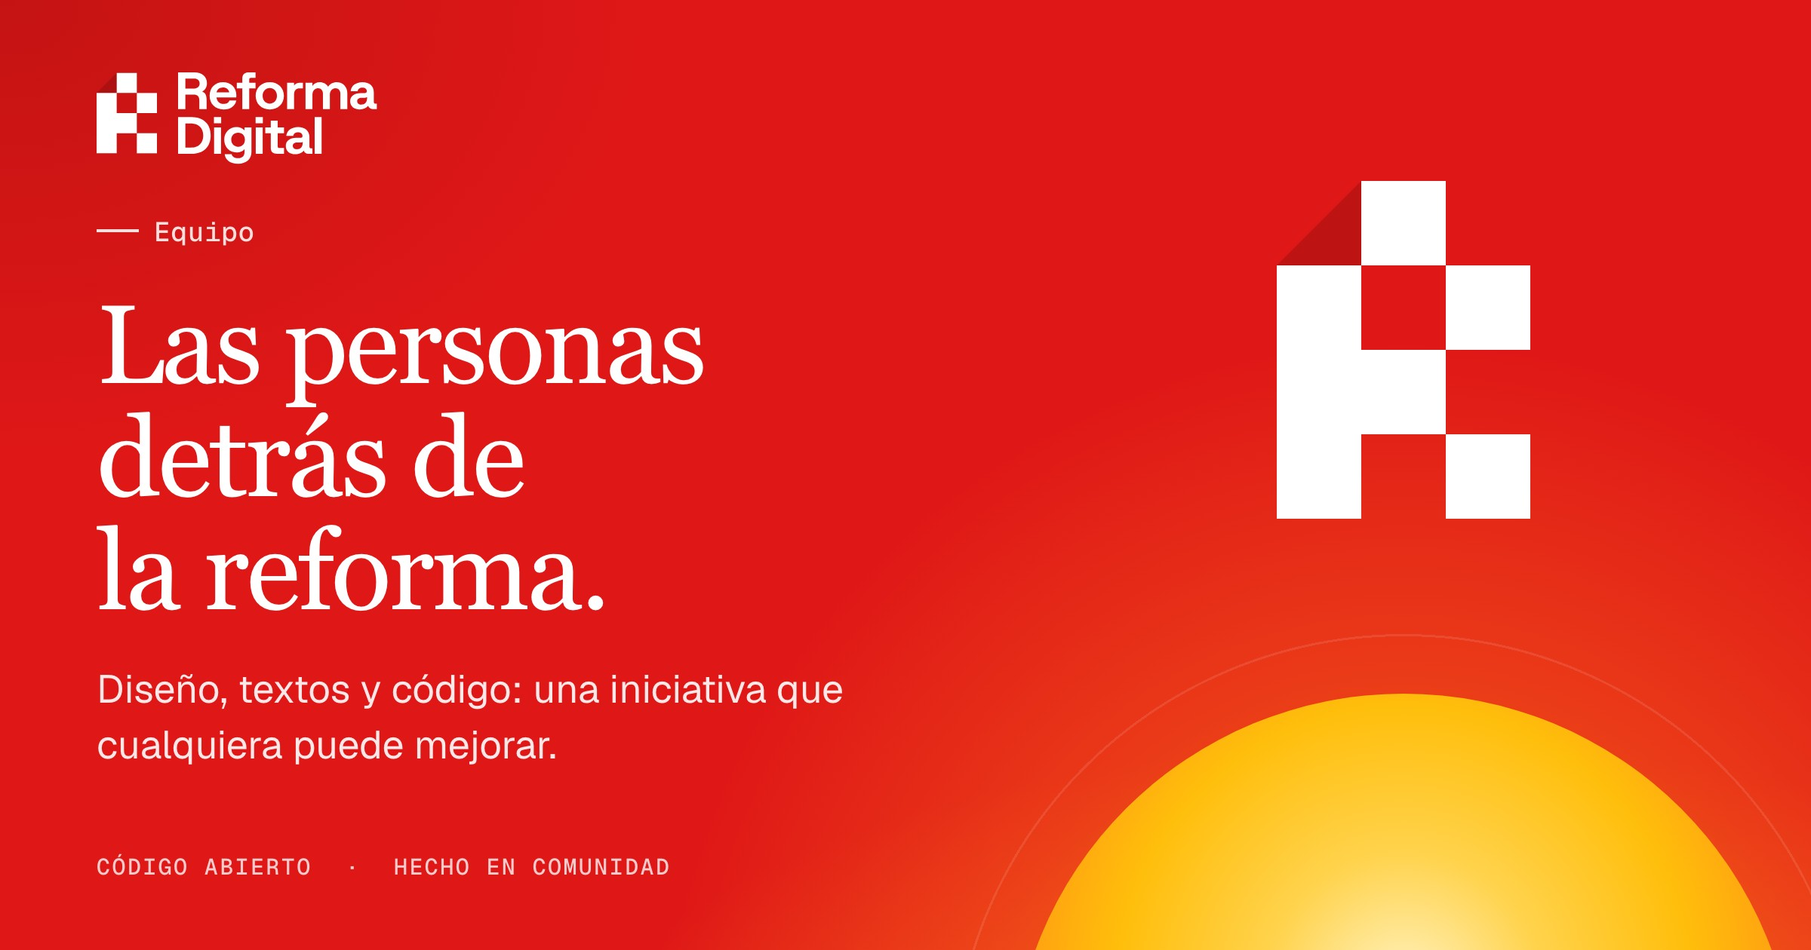
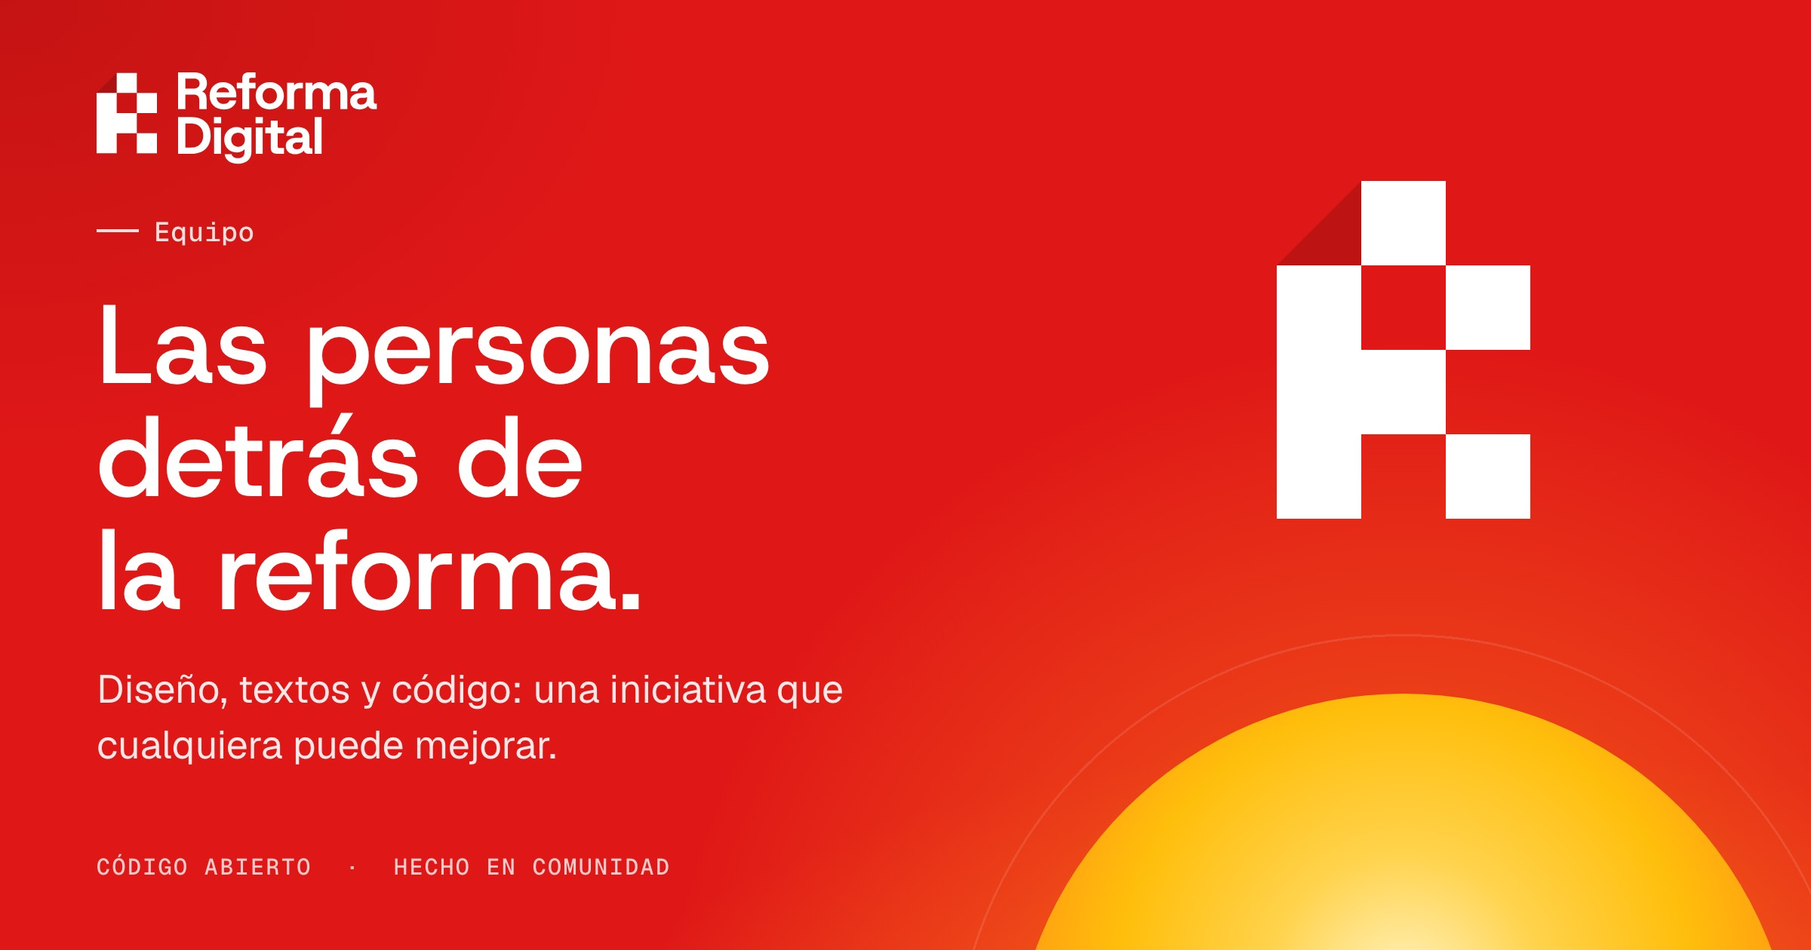
feat(design): usa Host Grotesk Medium en los titulares (#188)
## Change

Los titulares y las cifras grandes usaban FFF Tool Serif Text, que ya no
es la tipografía de la marca. Pasan a **Host Grotesk Medium** sin
espaciado añadido, en la web, la app de escritorio y las imágenes OG. El
cuerpo sigue en Geist (Inter en la app).

Primero se eligió Cassette Medium, la familia del logotipo. Al
compararlas sobre la web, Host Grotesk resultó casi idéntica y además es
OFL, así que no hace falta comprar licencia web ni de app. Tras probar
Medium, SemiBold y Bold con varios espaciados, se elige Medium con
espaciado 0.

- `packages/design/styles/theme.css`: `--font-brand-heading` es
`var(--font-host-grotesk, var(--font-brand-text))`.
- Web (`apps/web/components/brand/fuentes.ts`): carga Host Grotesk con
`next/font/google`, solo en grosor 500, así que los titulares salen en
Medium aunque pidan `font-normal`.
- App de escritorio: añade `@fontsource/host-grotesk` (solo `500.css`) y
`--font-brand-heading` en `app.css`.
- Se quita el espaciado negativo de todos los titulares de la web y la
app (antes, entre −1 % y −3 %, pensado para la serif).
- `og/template.html` usa Host Grotesk Medium y las imágenes de
`public/og/` se han regenerado con `pnpm landing:og`.
- `DESIGN.md` recoge la norma (§8.1 y app de escritorio). `.gitignore`
deja de reservar una carpeta para fuentes de pago, que ya no hacen
falta.

El logotipo no cambia: sigue contorneado en Cassette SemiBold, así que
la licencia de logotipo de Cassette sigue pendiente.

## Verification
[…]

Changed region(s): [[0.0312, 0.3095, 0.4375, 0.5262], [0.0312, 0.5571, 0.375, 0.65]]

diff --git a/apps/web/app/(search)/page.tsx b/apps/web/app/(search)/page.tsx
@@ -77,7 +77,7 @@ export default function HomePage() {
             <h1
               id="in-titulo"
               className={
-                't-titular-xl m-0 [font-family:var(--font-brand-heading)] font-normal [font-kerning:normal] text-balance [font-size:clamp(44px,_6.4vw,_92px)] [line-height:1] [letter-spacing:-0.03em]'
+                't-titular-xl m-0 [font-family:var(--font-brand-heading)] font-normal [font-kerning:normal] text-balance [font-size:clamp(44px,_6.4vw,_92px)] [line-height:1]'
               }
             >
               Lo público, a la altura de las personas.
@@ -127,7 +127,7 @@ export default function HomePage() {
             <h2
               id="in-idea"
               className={
-                't-titular-m m-0 [font-family:var(--font-brand-heading)] font-normal [font-kerning:normal] text-balance [font-size:clamp(32px,_4vw,_52px)] [line-height:1.05] [letter-spacing:-0.02em]'
+                't-titular-m m-0 [font-family:var(--font-brand-heading)] font-normal [font-kerning:normal] text-balance [font-size:clamp(32px,_4vw,_52px)] [line-height:1.05]'
               }
             >
               Que hacer un trámite no sea otro trámite.
@@ -185,7 +185,7 @@ export default function HomePage() {
                   <h2
                     id="in-proyectos-titulo"
                     className={
-                      't-titular-m m-0 [font-family:var(--font-brand-heading)] font-normal [font-kerning:normal] text-balance [font-size:clamp(32px,_4vw,_52px)] [line-height:1.05] [letter-spacing:-0.02em]'
+                      't-titular-m m-0 [font-family:var(--font-brand-heading)] font-normal [font-kerning:normal] text-balance [font-size:clamp(32px,_4vw,_52px)] [line-height:1.05]'
                     }
                   >
                     La idea, puesta en práctica.
@@ -415,7 +415,7 @@ export default function HomePage() {
           <h2
             id="in-comunidad-titulo"
             className={
-              't-titular-m m-0 [font-family:var(--font-brand-heading)] font-normal [font-kerning:normal] text-balance [font-size:clamp(32px,_4vw,_52px)] [line-height:1.05] [letter-spacing:-0.02em]'
+              't-titular-m m-0 [font-family:var(--font-brand-heading)] font-normal [font-kerning:normal] text-balance [font-size:clamp(32px,_4vw,_52px)] [line-height:1.05]'
             }
           >
             Tu experiencia puede ser el próximo cambio.
@@ -452,7 +452,7 @@ export default function HomePage() {
                 <div>
                   <h3
                     className={
-                      't-titular-s m-0 [font-family:var(--font-brand-heading)] font-normal [font-kerning:normal] text-balance [font-size:clamp(24px,_2.4vw,_30px)] [line-height:1.15] [letter-spacing:-0.01em]'
+                      't-titular-s m-0 [font-family:var(--font-brand-heading)] font-normal [font-kerning:normal] text-balance [font-size:clamp(24px,_2.4vw,_30px)] [line-height:1.15]'
                     }
                   >
                     Entra en GitHub.
@@ -483,7 +483,7 @@ export default function HomePage() {
                 <div>
                   <h3
                     className={
-                      't-titular-s m-0 [font-family:var(--font-brand-heading)] font-normal [font-kerning:normal] text-balance [font-size:clamp(24px,_2.4vw,_30px)] [line-height:1.15] [letter-spacing:-0.01em]'
+                      't-titular-s m-0 [font-family:var(--font-brand-heading)] font-normal [font-kerning:normal] text-balance [font-size:clamp(24px,_2.4vw,_30px)] [line-height:1.15]'
                     }
                   >
                     Comparte lo que mejorarías.
@@ -514,7 +514,7 @@ export default function HomePage() {
                 <div>
                   <h3
                     className={
-                      't-titular-s m-0 [font-family:var(--font-brand-heading)] font-normal [font-kerning:normal] text-balance [font-size:clamp(24px,_2.4vw,_30px)] [line-height:1.15] [letter-spacing:-0.01em]'
+                      't-titular-s m-0 [font-family:var(--font-brand-heading)] font-normal [font-kerning:normal] text-balance [font-size:clamp(24px,_2.4vw,_30px)] [line-height:1.15]'
                     }
                   >
                     Dale forma a una propuesta.

diff --git a/apps/web/components/congreso/common.tsx b/apps/web/components/congreso/common.tsx
@@ -44,7 +44,7 @@ export function Intro({
   return (
     <div
       className={
-        "cg-intro [margin:32px_0] [&_:is(h1,_h2)]:[font-size:clamp(34px,_4.2vw,_56px)] [&_:is(h1,_h2)]:[line-height:1.08] [&_:is(h1,_h2)]:[letter-spacing:-0.02em] [&_:is(h1,_h2)]:[margin:12px_0] [&:has(>_h1)]:[--celda:4px] [&:has(>_h1)]:relative [&:has(>_h1)]:isolate [&:has(>_h1)]:overflow-hidden [&:has(>_h1)]:flex [&:has(>_h1)]:flex-col [&:has(>_h1)]:[justify-content:flex-end] [&:has(>_h1)]:min-h-75 [&:has(>_h1)]:[padding:clamp(32px,_5vw,_64px)_clamp(24px,_4.5vw,_56px)] [&:has(>_h1)]:[border-radius:28px] [&:has(>_h1)]:[box-shadow:inset_0_0_0_1px_var(--border)] [&:has(>_h1)_>_*]:[max-width:min(62ch,_52%)] [&:has(>_h1)::after]:[content:''] [&:has(>_h1)::after]:absolute [&:has(>_h1)::after]:[z-index:-1] [&:has(>_h1)::after]:[right:clamp(0px,_4%,_56px)] [&:has(>_h1)::after]:[bottom:0] [&:has(>_h1)::after]:[width:calc(120_*_var(--celda))] [&:has(>_h1)::after]:[height:calc(44_*_var(--celda))] [&:has(>_h1)::after]:[background:url('/congreso/sol-disco.png')_50%_100%_/_100%_100%_no-repeat] [&:has(>_h1)::after]:[image-rendering:pixelated] [&:has(>_h1)::after]:pointer-events-none [@container(max-width:_1090px)]:[&:has(>_h1)]:[--celda:3px] [@container(max-width:_820px)]:[&:has(>_h1)]:[min-height:0] [@container(max-width:_820px)]:[&:has(>_h1)]:[padding-bottom:calc(44_*_var(--celda)_+_16px)] [@container(max-width:_820px)]:[&:has(>_h1)_>_*]:max-w-none [@container(max-width:_820px)]:[&:has(>_h1)::after]:[right:calc(50%_-_60_*_var(--celda))]"
+        "cg-intro [margin:32px_0] [&_:is(h1,_h2)]:[font-size:clamp(34px,_4.2vw,_56px)] [&_:is(h1,_h2)]:[line-height:1.08] [&_:is(h1,_h2)]:[margin:12px_0] [&:has(>_h1)]:[--celda:4px] [&:has(>_h1)]:relative [&:has(>_h1)]:isolate [&:has(>_h1)]:overflow-hidden [&:has(>_h1)]:flex [&:has(>_h1)]:flex-col [&:has(>_h1)]:[justify-content:flex-end] [&:has(>_h1)]:min-h-75 [&:has(>_h1)]:[padding:clamp(32px,_5vw,_64px)_clamp(24px,_4.5vw,_56px)] [&:has(>_h1)]:[border-radius:28px] [&:has(>_h1)]:[box-shadow:inset_0_0_0_1px_var(--border)] [&:has(>_h1)_>_*]:[max-width:min(62ch,_52%)] [&:has(>_h1)::after]:[content:''] [&:has(>_h1)::after]:absolute [&:has(>_h1)::after]:[z-index:-1] [&:has(>_h1)::after]:[right:clamp(0px,_4%,_56px)] [&:has(>_h1)::after]:[bottom:0] [&:has(>_h1)::after]:[width:calc(120_*_var(--celda))] [&:has(>_h1)::after]:[height:calc(44_*_var(--celda))] [&:has(>_h1)::after]:[background:url('/congreso/sol-disco.png')_50%_100%_/_100%_100%_no-repeat] [&:has(>_h1)::after]:[image-rendering:pixelated] [&:has(>_h1)::after]:pointer-events-none [@container(max-width:_1090px)]:[&:has(>_h1)]:[--celda:3px] [@container(max-width:_820px)]:[&:has(>_h1)]:[min-height:0] [@container(max-width:_820px)]:[&:has(>_h1)]:[padding-bottom:calc(44_*_var(--celda)_+_16px)] [@container(max-width:_820px)]:[&:has(>_h1)_>_*]:max-w-none [@container(max-width:_820px)]:[&:has(>_h1)::after]:[right:calc(50%_-_60_*_var(--celda))]"
       }
     >
       <span

diff --git a/apps/web/app/(search)/congreso/[[...path]]/page.tsx b/apps/web/app/(search)/congreso/[[...path]]/page.tsx
@@ -75,7 +75,7 @@ export default async function Page({ params, searchParams }: Props) {
       {section === '' && (
         <section
           className={
-            "cg-hero [--celda:8px] relative isolate overflow-hidden [margin:0_8px] [padding:96px_var(--page-gutter)_calc(32_*_var(--celda)_+_24px)] [border-radius:28px] [box-shadow:inset_0_0_0_1px_var(--border)] text-center [&::after]:[content:''] [&::after]:absolute [&::after]:[z-index:-1] [&::after]:[inset:auto_0_0] [&::after]:[height:calc(32_*_var(--celda))] [&::after]:[background:url('/congreso/sol-horizonte.png')_50%_100%_/_calc(360_*_var(--celda))_100%_no-repeat] [&::after]:[image-rendering:pixelated] [&::after]:pointer-events-none [&_h1]:[font-size:clamp(36px,_5vw,_72px)] [&_h1]:[line-height:1.08] [&_h1]:[letter-spacing:-0.02em] [&_h1]:[max-width:25ch] [&_h1]:[margin:24px_auto] [&_p]:[max-width:62ch] [&_p]:[margin:0_auto] [&_p]:[color:var(--text-secondary)] [&_p]:text-lg [&_[data-slot=button][data-variant=outline]]:absolute [&_[data-slot=button][data-variant=outline]]:[inset:auto_0_24px] [&_[data-slot=button][data-variant=outline]]:[width:fit-content] [&_[data-slot=button][data-variant=outline]]:[margin-inline:auto] [@media(max-width:_560px)]:[--celda:6px] [@media(max-width:_560px)]:pt-16 [@media(max-width:_560px)]:[&_p]:text-base"
+            "cg-hero [--celda:8px] relative isolate overflow-hidden [margin:0_8px] [padding:96px_var(--page-gutter)_calc(32_*_var(--celda)_+_24px)] [border-radius:28px] [box-shadow:inset_0_0_0_1px_var(--border)] text-center [&::after]:[content:''] [&::after]:absolute [&::after]:[z-index:-1] [&::after]:[inset:auto_0_0] [&::after]:[height:calc(32_*_var(--celda))] [&::after]:[background:url('/congreso/sol-horizonte.png')_50%_100%_/_calc(360_*_var(--celda))_100%_no-repeat] [&::after]:[image-rendering:pixelated] [&::after]:pointer-events-none [&_h1]:[font-size:clamp(36px,_5vw,_72px)] [&_h1]:[line-height:1.08] [&_h1]:[max-width:25ch] [&_h1]:[margin:24px_auto] [&_p]:[max-width:62ch] [&_p]:[margin:0_auto] [&_p]:[color:var(--text-secondary)] [&_p]:text-lg [&_[data-slot=button][data-variant=outline]]:absolute [&_[data-slot=button][data-variant=outline]]:[inset:auto_0_24px] [&_[data-slot=button][data-variant=outline]]:[width:fit-content] [&_[data-slot=button][data-variant=outline]]:[margin-inline:auto] [@media(max-width:_560px)]:[--celda:6px] [@media(max-width:_560px)]:pt-16 [@media(max-width:_560px)]:[&_p]:text-base"
           }
         >
           <span

diff --git a/apps/web/components/brand/info-page.tsx b/apps/web/components/brand/info-page.tsx
@@ -9,7 +9,7 @@ export function InfoPage({ children, narrow = false }: { children: ReactNode; na
       <main
         id="main"
         tabIndex={-1}
-        className={`info-pagina [max-width:var(--container-content)] [min-height:55vh] [margin-inline:auto] [padding:64px_var(--page-gutter)_80px] [&_>_h1]:[max-width:22ch] [&_>_h1]:mb-6 [&_>_h1]:[font:400_clamp(36px,_4.5vw,_60px)/1.1_var(--font-brand-heading)] [&_>_h1]:[letter-spacing:-0.02em] [&_form:has(select)]:flex [&_form:has(select)]:items-center [&_form:has(select)]:flex-wrap [&_form:has(select)]:gap-3 [&_form:has(select)]:my-6 [&_table]:w-full [&_table]:[border-collapse:collapse] [&_table]:text-sm [&_table]:my-4 [&_:is(th,_td)]:p-3 [&_:is(th,_td)]:[border-bottom:1px_solid_var(--border)] [&_:is(th,_td)]:text-left [&_:is(th,_td)]:[font-variant-numeric:tabular-nums] [@media(max-width:_600px)]:[padding-block:40px_64px]${narrow ? ' info-lectura [max-width:760px] [&_>_h2]:[margin-block:40px_16px] [&_>_h2]:[font-size:clamp(24px,_3vw,_32px)] [&_>_h2]:[line-height:1.2] [&_>_p:not(.info-entradilla)]:my-4 [&_>_p:not(.info-entradilla)]:[color:var(--text-secondary)] [&_li]:my-4 [&_li]:[color:var(--text-secondary)] [&_ol]:pl-6 [&_li]:pl-2 [&_strong]:[color:var(--foreground)]' : ''}`}
+        className={`info-pagina [max-width:var(--container-content)] [min-height:55vh] [margin-inline:auto] [padding:64px_var(--page-gutter)_80px] [&_>_h1]:[max-width:22ch] [&_>_h1]:mb-6 [&_>_h1]:[font:400_clamp(36px,_4.5vw,_60px)/1.1_var(--font-brand-heading)] [&_form:has(select)]:flex [&_form:has(select)]:items-center [&_form:has(select)]:flex-wrap [&_form:has(select)]:gap-3 [&_form:has(select)]:my-6 [&_table]:w-full [&_table]:[border-collapse:collapse] [&_table]:text-sm [&_table]:my-4 [&_:is(th,_td)]:p-3 [&_:is(th,_td)]:[border-bottom:1px_solid_var(--border)] [&_:is(th,_td)]:text-left [&_:is(th,_td)]:[font-variant-numeric:tabular-nums] [@media(max-width:_600px)]:[padding-block:40px_64px]${narrow ? ' info-lectura [max-width:760px] [&_>_h2]:[margin-block:40px_16px] [&_>_h2]:[font-size:clamp(24px,_3vw,_32px)] [&_>_h2]:[line-height:1.2] [&_>_p:not(.info-entradilla)]:my-4 [&_>_p:not(.info-entradilla)]:[color:var(--text-secondary)] [&_li]:my-4 [&_li]:[color:var(--text-secondary)] [&_ol]:pl-6 [&_li]:pl-2 [&_strong]:[color:var(--foreground)]' : ''}`}
       >
         {children}
       </main>

diff --git a/apps/web/components/elecciones/report.tsx b/apps/web/components/elecciones/report.tsx
@@ -59,7 +59,7 @@ export function Cell({
 export function Stat({ value, caption }: { value: ReactNode; caption: ReactNode }) {
   return (
     <p className="m-0 grid gap-2">
-      <b className="font-heading text-[40px] leading-none font-normal tracking-tight tabular-nums lg:text-5xl">
+      <b className="font-heading text-[40px] leading-none font-normal tabular-nums lg:text-5xl">
         {value}
       </b>
       <span className="max-w-[32ch] text-base leading-snug text-muted-foreground">{caption}</span>
@@ -165,7 +165,7 @@ export function Chapter({
           </p>
           <h2
             id={`${id}-titulo`}
-            className="m-0 font-heading text-[32px] leading-[1.1] font-normal tracking-tight lg:text-[44px]"
+            className="m-0 font-heading text-[32px] leading-[1.1] font-normal lg:text-[44px]"
           >
             {title}
           </h2>
@@ -183,7 +183,7 @@ export function Chapter({
 export function ReportIntro({ title, children }: { title: string; children?: ReactNode }) {
   return (
     <header className="mb-10 grid items-end gap-x-12 gap-y-4 md:grid-cols-2">
-      <h1 className="m-0 font-heading text-4xl leading-[1.1] font-normal tracking-tight lg:text-[52px]">
+      <h1 className="m-0 font-heading text-4xl leading-[1.1] font-normal lg:text-[52px]">
         {title}
       </h1>
       {children && (
@@ -204,7 +204,7 @@ export function ReportStats({ items }: { items: [number | string, string][] }) {
           className="flex-col-reverse justify-end gap-2 bg-muted p-6 ring-0 max-sm:p-5"
         >
           <dt className="text-base leading-snug text-muted-foreground">{label}</dt>
-          <dd className="m-0 font-heading text-[40px] leading-none tracking-tight tabular-nums">
+          <dd className="m-0 font-heading text-[40px] leading-none tabular-nums">
             {typeof value === 'number'
               ? String(value).replace(/\B(?=(\d{3})+(?!\d))/g, '.')
               : value}

diff --git a/apps/web/app/(search)/equipo/page.tsx b/apps/web/app/(search)/equipo/page.tsx
@@ -57,7 +57,7 @@ export default async function CoreTeamPage() {
               <h1
                 id="ct-titulo"
                 className={
-                  't-titular-m m-0 [font-family:var(--font-brand-heading)] font-normal [font-kerning:normal] text-balance [font-size:clamp(32px,_4vw,_52px)] [line-height:1.05] [letter-spacing:-0.02em]'
+                  't-titular-m m-0 [font-family:var(--font-brand-heading)] font-normal [font-kerning:normal] text-balance [font-size:clamp(32px,_4vw,_52px)] [line-height:1.05]'
                 }
               >
                 Core team
@@ -99,7 +99,7 @@ export default async function CoreTeamPage() {
                         <div>
                           <h2
                             className={
-                              't-titular-s m-0 [font-family:var(--font-brand-heading)] font-normal [font-kerning:normal] text-balance [font-size:clamp(24px,_2.4vw,_30px)] [line-height:1.15] [letter-spacing:-0.01em]'
+                              't-titular-s m-0 [font-family:var(--font-brand-heading)] font-normal [font-kerning:normal] text-balance [font-size:clamp(24px,_2.4vw,_30px)] [line-height:1.15]'
                             }
                           >
                             {name}
@@ -136,7 +136,7 @@ export default async function CoreTeamPage() {
                 <h2
                   id="ct-contributors-titulo"
                   className={
-                    't-titular-s m-0 [font-family:var(--font-brand-heading)] font-normal [font-kerning:normal] text-balance [font-size:clamp(24px,_2.4vw,_30px)] [line-height:1.15] [letter-spacing:-0.01em]'
+                    't-titular-s m-0 [font-family:var(--font-brand-heading)] font-normal [font-kerning:normal] text-balance [font-size:clamp(24px,_2.4vw,_30px)] [line-height:1.15]'
                   }
                 >
                   Contributors

diff --git a/apps/web/app/(search)/escritorio/page.tsx b/apps/web/app/(search)/escritorio/page.tsx
@@ -43,9 +43,9 @@ const readme = `${links.repo}/tree/main/apps/desktop#readme`;
 
 const etiqueta = 'text-sm font-medium text-brand';
 const titularSeccion =
-  'm-0 font-heading font-normal text-balance text-[clamp(32px,4vw,52px)] leading-[1.05] tracking-[-0.02em]';
+  'm-0 font-heading font-normal text-balance text-[clamp(32px,4vw,52px)] leading-[1.05]';
 const titularTarjeta =
-  'm-0 font-heading font-normal text-balance text-[clamp(24px,2.4vw,30px)] leading-[1.15] tracking-[-0.01em]';
+  'm-0 font-heading font-normal text-balance text-[clamp(24px,2.4vw,30px)] leading-[1.15]';
 const entradilla = 'text-[clamp(17px,1.4vw,19px)] leading-[1.6] text-pretty';
 const seccion = 'mx-auto max-w-(--container-content) px-(--page-gutter)';
 
@@ -82,7 +82,7 @@ export default function DesktopPage() {
           <p className={cn(etiqueta, 'mb-5')}>App de escritorio para macOS, Windows y Linux</p>
           <h1
             id="es-titulo"
-            className="mx-auto mb-6 max-w-[28ch] font-heading text-[clamp(36px,5vw,60px)] leading-[1.08] font-normal tracking-[-0.02em] text-balance"
+            className="mx-auto mb-6 max-w-[28ch] font-heading text-[clamp(36px,5vw,60px)] leading-[1.08] font-normal text-balance"
           >
             Haz tus trámites sin perderte en la sede electrónica.
           </h1>

diff --git a/apps/web/og/template.html b/apps/web/og/template.html
@@ -5,7 +5,7 @@
     <title>Reforma Digital</title>
     <link
       rel="stylesheet"
-      href="https://fonts.googleapis.com/css2?family=Geist:wght@400;500;600;700&family=Geist+Mono:wght@400;500&display=block"
+      href="https://fonts.googleapis.com/css2?family=Host+Grotesk:wght@500&family=Geist:wght@400;500;600;700&family=Geist+Mono:wght@400;500&display=block"
     />
     <style>
       :root {
@@ -18,7 +18,7 @@
         --tinta-3: #6b6b6b;
         --blanco: #ffffff;
         --linea: rgba(0, 0, 0, 0.1);
-        --font-titular: Georgia, serif;
+        --font-titular: 'Host Grotesk', 'Geist', ui-sans-serif, system-ui, sans-serif;
         --font-texto: 'Geist', ui-sans-serif, system-ui, sans-serif;
         --font-mono: 'Geist Mono', ui-monospace, monospace;
       }
@@ -144,9 +144,8 @@
       h1 {
         font-family: var(--font-titular);
         font-size: 74px;
-        font-weight: 400;
+        font-weight: 500;
         line-height: 1.02;
-        letter-spacing: -0.025em;
         text-wrap: balance;
       }
       .texto {
@@ -223,7 +222,6 @@
         max-width: 900px;
         font-size: 86px;
         line-height: 1.04;
-        letter-spacing: -0.02em;
       }
       [data-escena='portada'] .texto {
         max-width: 44ch;

diff --git a/apps/web/components/brand/fuentes.ts b/apps/web/components/brand/fuentes.ts
@@ -1,8 +1,14 @@
-import { Geist, Geist_Mono } from 'next/font/google';
+import { Geist, Geist_Mono, Host_Grotesk } from 'next/font/google';
 
 const geist = Geist({ subsets: ['latin'], variable: '--font-geist' });
 // Sin preload: solo la usan etiquetas y datos pequeños, y no todas las páginas los muestran.
 const geistMono = Geist_Mono({ subsets: ['latin'], variable: '--font-geist-mono', preload: false });
+// Solo Medium: los titulares no usan otro grosor, aunque pidan `font-normal`.
+const hostGrotesk = Host_Grotesk({
+  subsets: ['latin'],
+  weight: '500',
+  variable: '--font-host-grotesk',
+});
 
 // Se monta una sola vez en el layout raíz junto a `sol-raiz`.
-export const fuentesSol = `${geist.variable} ${geistMono.variable}`;
+export const fuentesSol = `${geist.variable} ${geistMono.variable} ${hostGrotesk.variable}`;

diff --git a/apps/web/components/brand/mobile-menu.tsx b/apps/web/components/brand/mobile-menu.tsx
@@ -57,7 +57,7 @@ export function MobileMenu({ links }: { links: readonly MenuLink[] }) {
                 href={href}
                 aria-current={current ? 'page' : undefined}
                 onClick={close}
-                className="flex min-h-[76px] items-center justify-between border-b border-foreground/15 font-heading text-4xl leading-tight tracking-tight no-underline"
+                className="flex min-h-[76px] items-center justify-between border-b border-foreground/15 font-heading text-4xl leading-tight no-underline"
               >
                 {text}
                 <Icon name="derecha" size={18} />

diff --git a/apps/web/components/elecciones/home.tsx b/apps/web/components/elecciones/home.tsx
@@ -415,7 +415,7 @@ export async function ElectionsHome() {
           <div className="grid gap-8">
             <div className="grid justify-items-start gap-4">
               <Badge className="font-mono uppercase">{current.label}</Badge>
-              <h1 className="m-0 max-w-[18ch] font-heading text-4xl leading-[1.08] font-normal tracking-tight lg:text-[56px]">
+              <h1 className="m-0 max-w-[18ch] font-heading text-4xl leading-[1.08] font-normal lg:text-[56px]">
                 {current.title}
               </h1>
               <p className="m-0 max-w-[58ch] text-lg leading-relaxed text-muted-foreground">

diff --git a/apps/desktop/src/renderer/inicio.tsx b/apps/desktop/src/renderer/inicio.tsx
@@ -200,7 +200,7 @@ export function Inicio({ abrir }: { abrir: (id: string) => void }) {
       <div className="arrastrar h-[52px] shrink-0" />
       <div className="relative flex min-h-0 flex-1 flex-col items-center overflow-y-auto px-8">
         <div className="my-auto w-full max-w-[680px] py-10">
-          <h1 className="m-0 mb-8 text-center font-heading text-[40px] leading-[1.1] font-normal tracking-[-0.02em]">
+          <h1 className="m-0 mb-8 text-center font-heading text-[40px] leading-[1.1] font-normal">
             ¿Qué trámite quieres hacer?
           </h1>
           {app?.recordatorios.length ? (
